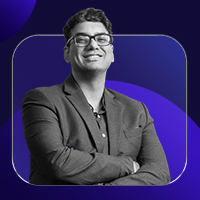
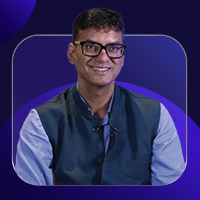
speaker images upadated

diff --git a/src/components/bengaluru26/BengaluruSpeakers.tsx b/src/components/bengaluru26/BengaluruSpeakers.tsx
@@ -5,7 +5,7 @@ const FeaturedSpeakers = () => {
       name: "Krishnan Venkateswaran",
       role: "Chief Digital & Information Officer, Titan Company",
       linkedin: "",
-      image: "/speakers/bengaluru26/Krishnan-Venkateswaran.png",
+      image: "/speakers/bengaluru26/Krishnan-Venkateswaran.jpg",
     },
     {
       name: "Amit Atri",
@@ -17,38 +17,44 @@ const FeaturedSpeakers = () => {
       name: "Narendra Babu",
       role: "CTO, PayU",
       linkedin: "https://www.linkedin.com/in/narendra-babu-4780444/",
-      image: "/speakers/bengaluru26/Narendra-Babu.png",
+      image: "/speakers/bengaluru26/Narendra-Babu.jpg",
     },
     {
       name: "Vikram Sridharan",
       role: "Chief Digital & IT Officer, Crompton Greaves Consumer Electricals",
       linkedin: "https://www.linkedin.com/in/sridharanvikram/",
-      image: "/speakers/bengaluru26/Vikram-Sridharan.png",
+      image: "/speakers/bengaluru26/Vikram-Sridharan.jpg",
     },
     {
       name: "Sudeep Dey",
       role: "CIO & CISO, Aster DM Healthcare",
       linkedin: "https://www.linkedin.com/in/deysudeep/",
-      image: "/speakers/bengaluru26/Sudeep-Dey.png",
+      image: "/speakers/bengaluru26/Sudeep-Dey.jpg",
     },
     {
       name: "Rajesh Ramachandran",
       role: "Global Chief Digital Officer & MD, ABB Automation, ABB",
       linkedin: "https://www.linkedin.com/in/rajeshramachandranurl/?originalSubdomain=in",
-      image: "/speakers/bengaluru26/Rajesh-Ramachandran.png",
+      image: "/speakers/bengaluru26/Rajesh-Ramachandran.jpg",
     },
     {
       name: "Chandan Vijay",
       role: "Global Chief Data Officer, ABB Energy Industries",
       linkedin: "https://www.linkedin.com/in/chandanvijay/",
-      image: "/speakers/bengaluru26/Chandan-Vijay.png",
+      image: "/speakers/bengaluru26/Chandan-Vijay.jpg",
     },
-    // {
-    //   name: "Amit Kapur",
-    //   role: "VP- Applied AI, Data & Analytics, Lowe's India",
-    //   linkedin: "https://www.linkedin.com/in/amit-kapur-ak/",
-    //   image: "/speakers/bengaluru26/Amit-Kapur.png",
-    // },
+    {
+      name: "Kumar S",
+      role: "Chief Technology Officer, Head of AI Strategy and Business Growth",
+      linkedin: "https://www.linkedin.com/in/kumar-subramani/",
+      image: "/speakers/bengaluru26/Kumar-S.jpg",
+    },
+    {
+      name: "Amit Kapur",
+      role: "VP- Applied AI, Data & Analytics, Lowe's India",
+      linkedin: "https://www.linkedin.com/in/amit-kapur-ak/",
+      image: "/speakers/bengaluru26/Amit-Kapur.jpg",
+    },
 
   ];
 
